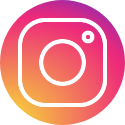
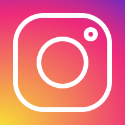
editing status

diff --git a/client/src/components/Information/Password.vue b/client/src/components/Information/Password.vue
@@ -11,9 +11,13 @@ export default {
     },
     data: () => ({
         show: false,
-        ids: []
+        ids: [],
+        editing: false
     }),
     methods:{
+        getImage(pic){
+            return require('../../assets/web-icons/'+pic+'.png')
+        },
         getDots(str){
             if(str){
                 var dots = []
@@ -76,13 +80,28 @@ export default {
 <template>
     <div>
         <div class="text-center">
+            <img :src="getImage(pass_info.log_website)" alt="" width="60" class="web_icons">
             <h3>{{pass_info.log_name}}</h3>
         </div>
-        <div class="pt-5">
+        <div class="py-5" v-show="!editing">
             <i class="bx bx-user mr-5 my-2"></i><small>{{pass_info.log_email}}</small> <br>
             <i class="bx bx-lock-alt mr-5 my-2"></i><span v-show="!show">{{getDots(pass_info.log_password)}}</span>
             <small v-show="show" ref="myPass" id="myPass">{{pass_info.log_password}}</small> <br>
             <i class="bx bx-link mr-5 my-2"></i><small><a :href="'//' + pass_info.log_url" target="_blank">{{pass_info.log_url}}</a></small>
+        </div>
+        <div class="py-5" v-show="editing">
+            <div class="d-flex align-center my-2">
+                <i class="bx bx-user mr-5 my-2"></i>
+                <vs-input v-model="value1" placeholder="User name"></vs-input>
+            </div>
+            <div class="d-flex align-center my-2">
+                <i class="bx bx-lock-alt mr-5 my-2"></i>
+                <vs-input v-model="value1" placeholder="Password" type="password"></vs-input>
+            </div>
+            <div class="d-flex align-center my-2">
+                <i class="bx bx-link mr-5 my-2"></i>
+                <vs-input v-model="value1" placeholder="Link"></vs-input>
+            </div>
         </div>
         <div class="d-flex justify-end">
             <vs-button icon flat @click="show = !show">
@@ -92,7 +111,7 @@ export default {
             <vs-button icon flat v-clipboard:copy="pass_info.log_password" @click="copyPass">
                 <i class='bx bx-copy'></i>
             </vs-button>
-            <vs-button icon flat>
+            <vs-button icon flat @click="editing = !editing">
                 <i class='bx bx-pencil'></i>
             </vs-button>
             <vs-button icon flat color="danger" @click="onClickDeleteLogin">
@@ -101,3 +120,9 @@ export default {
         </div>
     </div>
 </template>
+<style scoped>
+.web_icons{
+    border-radius: 20px;
+    margin: 20px 0px;
+}
+</style>

diff --git a/client/src/components/Filters/Passwords.vue b/client/src/components/Filters/Passwords.vue
@@ -34,7 +34,7 @@ export default {
                 <div v-for="(pass, i) in passwords" :key="i" class="neo" @click="view(pass)">
                     <v-container>
                         <div class="text-center">
-                            <img :src="getImage(pass.log_website)" alt="" width="50">
+                            <img :src="getImage(pass.log_website)" alt="" width="60" class="web_icons">
                             <h4 class="my-2">{{pass.log_name}}</h4>
                             <small>{{pass.log_email}}</small>
                         </div>
@@ -66,5 +66,8 @@ export default {
         box-shadow:  7px 7px 19px #dadae3,
              -7px -7px 19px #fafaff;
         cursor: pointer;
+    }
+    .web_icons{
+        border-radius: 15px;
     }
 </style>

diff --git a/client/src/store/Modules/password.js b/client/src/store/Modules/password.js
@@ -3,7 +3,8 @@ export const namespaced = true
 
 export const state = {
     passwords: [],
-    websites: ['Others', 'Instagram', 'Gmail', 'MongoDB', 'Facebook', 'Reddit', '9gag', 'Twitter']
+    websites: ['Others', 'Instagram', 'Gmail', 'MongoDB', 'Facebook', 'Reddit', '9gag', 'Twitter', 'Github', 'Dev', 'Linkedin',
+    'Apple', 'Google', 'Shopee']
 }
 
 export const mutations = {
